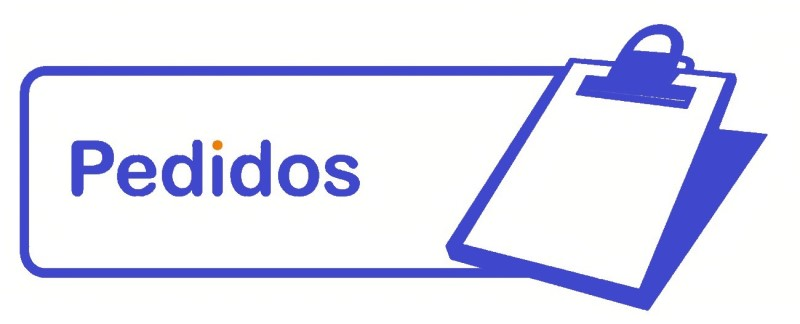
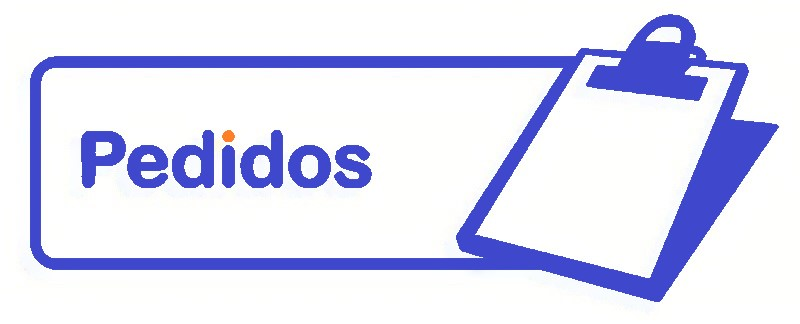
Ramas juntadas y funcinando (estático)

Changed region(s): [[0.0, 0.0309, 0.9688, 0.9568], [0.8438, 0.463, 0.9062, 0.7407]]

diff --git a/webapp/src/pages/Pedidos.tsx b/webapp/src/pages/Pedidos.tsx
@@ -1,30 +1,27 @@
 import React from 'react';
 import ObjetoPedido from '../components/ObjetoPedido';
 import Producto from './Producto';
-import image from '../images/pedido.jpg';
 
 var pedido1: Producto[] = [];
 var pedido2: Producto[] = [];
+var nada: String[] = [];
 
 const Pedidos = () => {
-    pedido1[0] = new Producto("Tortilla", "Tortilla", 3, 2);
-    pedido1[1] = new Producto("Pollo", "Pollo", 3, 1);
-    pedido1[2] = new Producto("Agua", "Agua", 1.25, 5);
+    pedido1[0] = new Producto("Tortilla", "Tortilla", 3, 2, "nada", false, nada);
+    pedido1[1] = new Producto("Pollo", "Pollo", 3, 1, "nada", false, nada);
+    pedido1[2] = new Producto("Agua", "Agua", 1.25, 5, "nada", false, nada);
 
-    pedido2[0] = new Producto("Arroz con leche", "Arroz con leche", 2.5, 3);
-    pedido2[1] = new Producto("Lomo con Queso", "Lomo con Queso", 2.5, 3);
-    pedido2[2] = new Producto("Coca-Cola", "Coca-Cola", 1.5, 3);
+    pedido2[0] = new Producto("Arroz con leche", "Arroz con leche", 2.5, 3, "nada", false, nada);
+    pedido2[1] = new Producto("Lomo con Queso", "Lomo con Queso", 2.5, 3, "nada", false, nada);
+    pedido2[2] = new Producto("Coca-Cola", "Coca-Cola", 1.5, 3, "nada", false, nada);
 
     return (
         <div id='pedidos'>
-        <main>
-            <h1>Tus pedidos:</h1>
-            <ObjetoPedido productos = {pedido1} numero = {1}></ObjetoPedido>
-            <ObjetoPedido productos = {pedido2} numero = {2}></ObjetoPedido>
-        </main>
-        <aside>
-            <img src={image}></img>
-        </aside>
+            <main>
+                <h1>Tus pedidos:</h1>
+                <ObjetoPedido productos = {pedido1} numero = {1}></ObjetoPedido>
+                <ObjetoPedido productos = {pedido2} numero = {2}></ObjetoPedido>
+            </main>
         </div>
         
     );

diff --git a/webapp/src/App.css b/webapp/src/App.css
@@ -158,6 +158,16 @@ footer{
   box-shadow: 0 0 20px 2px rgba(0, 0, 0, 0.4);
 }
 
+img #detalles{
+  float: center;
+}
+
+#pedidos{
+  background-image: url("images/pedido.jpg");
+  background-repeat: no-repeat;
+  background-position: right;
+}
+
 #pedidos main{
   max-width: 50%;
   padding: 2em;
@@ -171,13 +181,4 @@ footer{
 
 #pedidos main span{
   font-size: 1em;
-}
-
-#pedidos aside{
-  margin-top: 3em;
-  margin-left: 7em;
-}
-
-img #detalles{
-  float: center;
 }

diff --git a/webapp/src/components/NavBar.tsx b/webapp/src/components/NavBar.tsx
@@ -22,6 +22,7 @@ import { useContext, useState } from 'react';
 import { useNavigate } from "react-router-dom";
 import {useSession } from "@inrupt/solid-ui-react";
 import { InfoPod } from '../interface/interfaces';
+import Button from '@mui/material/Button';
 
 const pages = ['Tienda', 'Historia'];
 const settings = ['Signup', 'Login', 'Pedidos'];
